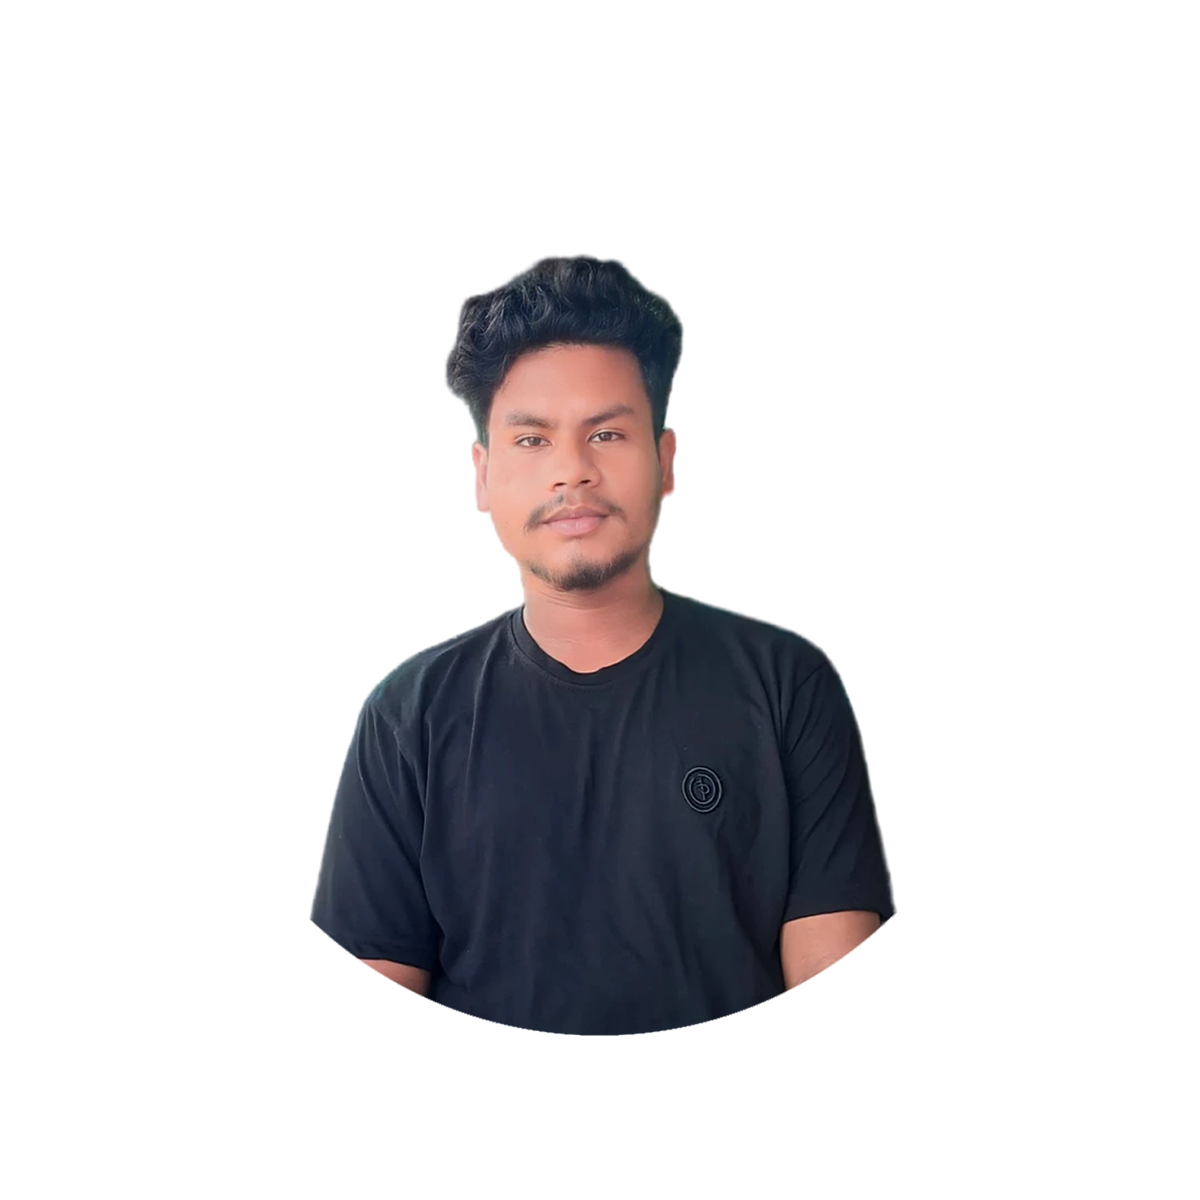
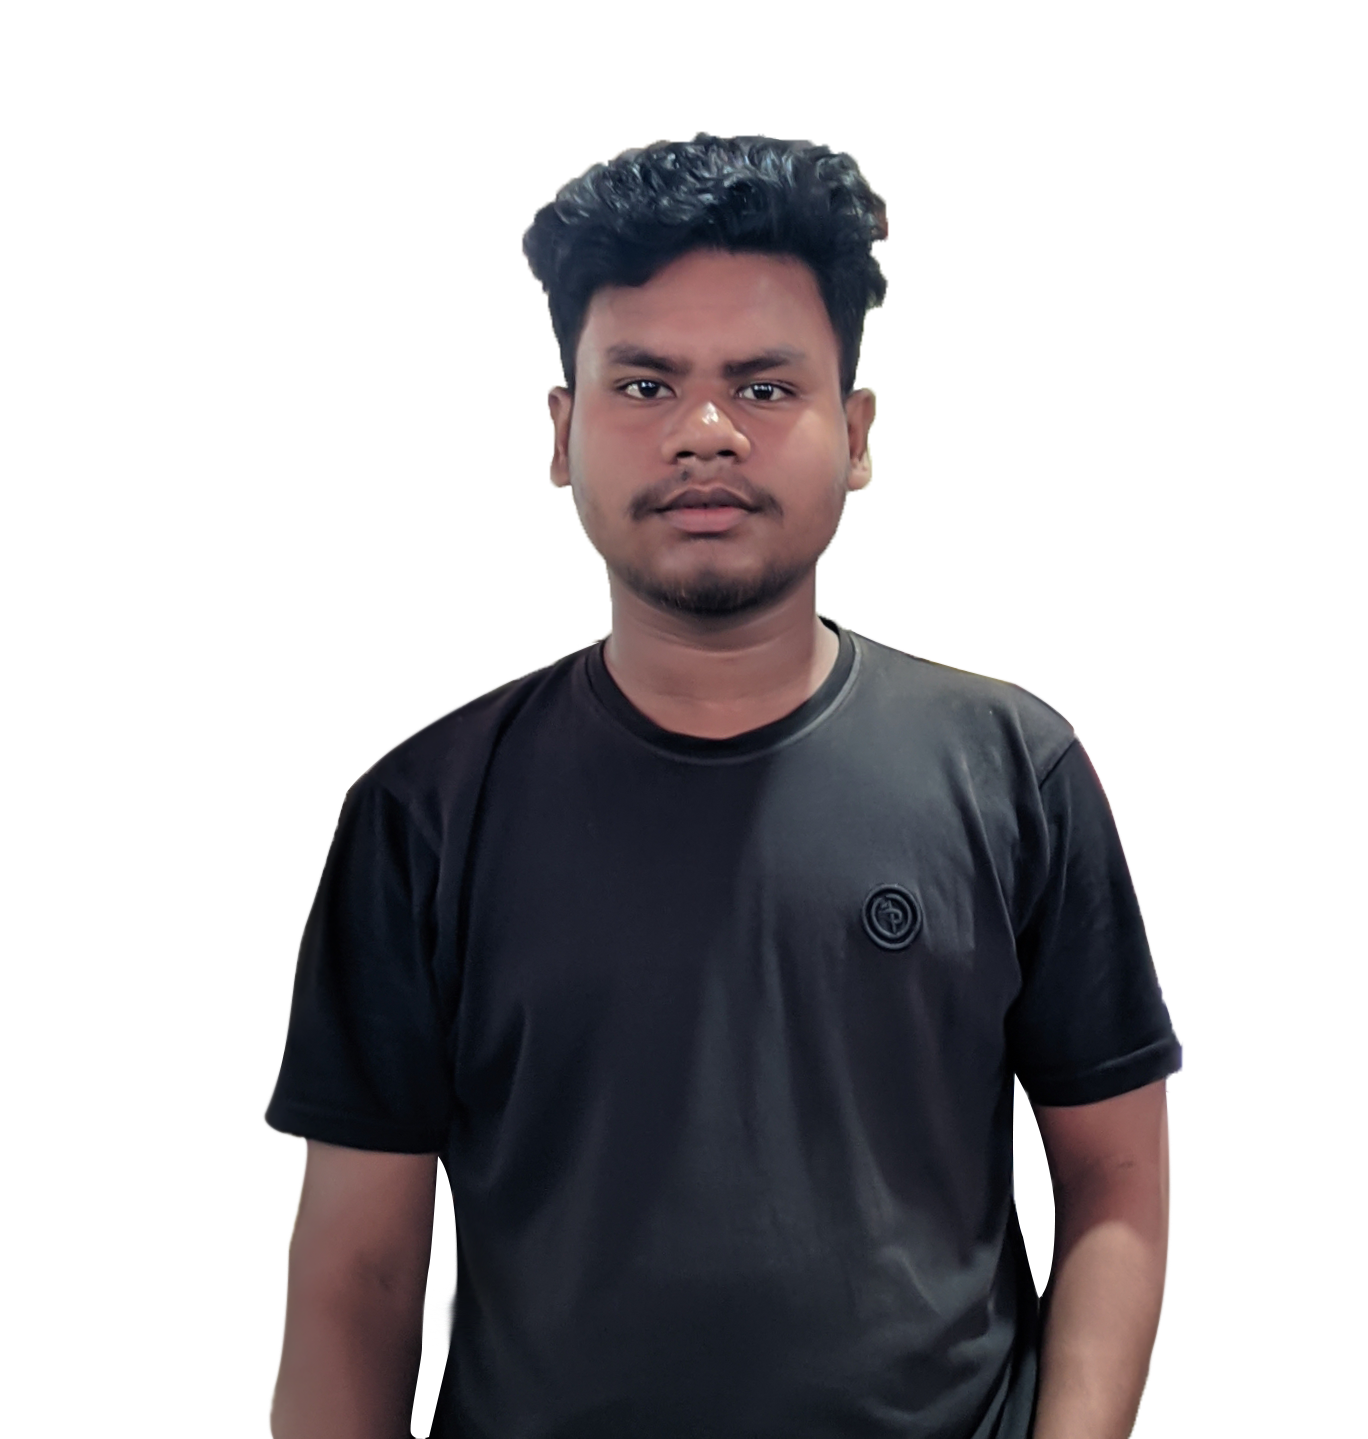
Project Update

diff --git a/src/components/Banner/Banner.jsx b/src/components/Banner/Banner.jsx
@@ -1,6 +1,6 @@
 'use client'
 import { useEffect, useState } from 'react';
-import { FaCss3, FaFacebook, FaGithub, FaHtml5, FaInstagram, FaLinkedin, FaNode, FaReact, FaTwitter } from "react-icons/fa";
+import { FaFacebook, FaGithub, FaLinkedin, } from "react-icons/fa";
 import Cursor from '../Cursor/Cursor';
 import Image from 'next/image';
 import { isMobile } from 'react-device-detect';
@@ -34,7 +34,6 @@ const Banner = () => {
                         words={['Web Developer', 'Front End Developer']}
                         loop
                         cursor
-                        
                         cursorStyle='...'
                         typeSpeed={100}
                         deleteSpeed={50}
@@ -62,7 +61,9 @@ const Banner = () => {
             </div>
             <div className='imageMove w-full'>
                 <div>
-                    <Image width={500} height={300} className='flashMove absolute top-20 z-20 w-[30%]' src="/man.png" alt="" />
+                    <div className='shadowStyle flashMove w-96 h-96 bg-[#02dde8c9] rounded-full flex justify-center items-center overflow-hidden'>
+                        <Image className='w-full' width={500} height={300}  src="/man.png" alt="" />
+                    </div>
                 </div>
             </div>
 

diff --git a/src/components/Banner/Banner.css b/src/components/Banner/Banner.css
@@ -1,7 +1,9 @@
-
-
 .flashMove {
     animation: up-down 3s infinite;
+}
+
+.shadowStyle {
+    box-shadow: 0px 0px 30px 5px  #02dde8;
 }
 
 
